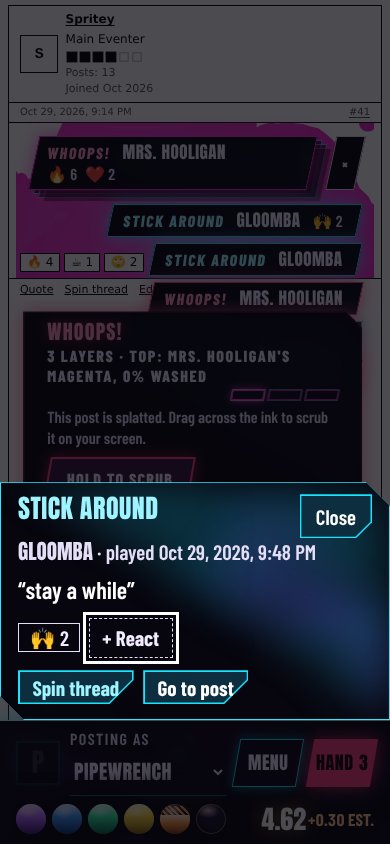
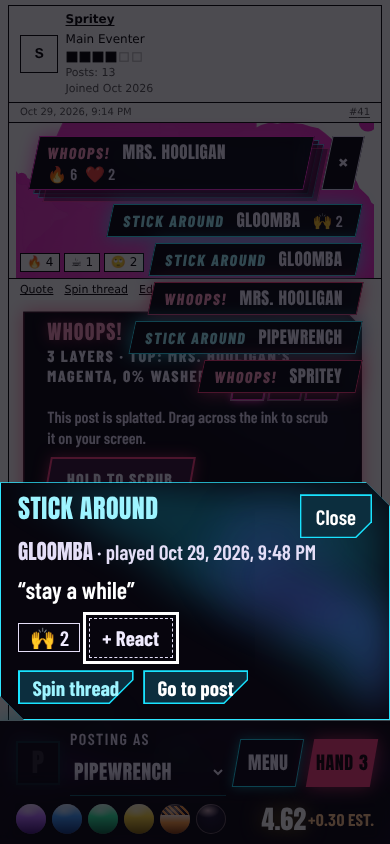
The unstacked list floats over its post's own controls as an open menu does: a backdrop takes a press, Tab past either end stacks it, and what it floats over is out of reach until then
axe's target-size, at 360px, found the post's History link left too little room by a floating tag. The post's footer, plate
and reactions are inert while the list is unstacked; a press lands on a clear backdrop and stacks it; Tab past the last
tag, or Shift+Tab before the first, stacks it and goes on. The shots are taken again on this build.

Claude-Session: https://claude.ai/code/session_01FiUbYMLkvanL29fe9B4of4

diff --git a/engine/ui/cards/Effects.tsx b/engine/ui/cards/Effects.tsx
@@ -21,8 +21,8 @@
  * in play order, so the latest is outermost. A post with no plays, or whose plays' cards draw no
  * effect, is drawn untouched.
  */
-import { createContext, useCallback, useContext, useEffect, useId, useMemo, useRef, useState, useSyncExternalStore, type CSSProperties, type ReactNode, type RefObject } from 'react';
-import { createPortal } from 'react-dom';
+import { createContext, useCallback, useContext, useEffect, useId, useLayoutEffect, useMemo, useRef, useState, useSyncExternalStore, type CSSProperties, type ReactNode, type RefObject } from 'react';
+import { createPortal, flushSync } from 'react-dom';
 import { useKayfa } from '../context.tsx';
 import type { Act, Id } from '../data/api.ts';
 import { usePlayer } from '../player.tsx';
@@ -271,9 +271,30 @@ export function PlayTags({ plays, post, to, nameOf, tallies, mine, onSpin }: {
     document.addEventListener('pointerdown', press);
     return () => document.removeEventListener('pointerdown', press);
   }, [unstacked, panelOpen]);
+  /*
+   * Unstacked, the list floats over its post's own controls (its reactions, its plate, its footer), which are out of reach
+   * until it is stacked again, as what lies under an open menu is: a press lands on the backdrop and stacks it, and Tab
+   * past either end of the list stacks it and goes on. So a control the list half-covers is never half-pressed (axe's
+   * target-size at a phone's width). Set and released in the commit itself, so Tab's focus move finds them reachable.
+   */
+  useLayoutEffect(() => {
+    const post = unstacked ? list.current?.closest('article') : null;
+    if (!post) return;
+    const under = [post.querySelector<HTMLElement>(':scope > footer'), post.querySelector<HTMLElement>(':scope > .kb-act-slot'), ...post.querySelectorAll<HTMLElement>(':scope > .kb-act-main > :not(.kb-play-tags)')]
+      .filter((el): el is HTMLElement => el !== null && !el.hasAttribute('inert'));
+    for (const el of under) el.setAttribute('inert', '');
+    return () => { for (const el of under) el.removeAttribute('inert'); };
+  }, [unstacked]);
   if (here.billed.length === 0) return null;
   const [lead, ...rest] = here.billed;
   const opener = (play: Id) => (el: HTMLButtonElement) => setOpen((was) => (was?.play === play ? null : { play, opener: el }));
+  /* Tab past the last of the stack's controls, or Shift+Tab before the first, stacks it, and the focus goes on where Tab takes it. */
+  const tabOut = (e: React.KeyboardEvent) => {
+    if (e.key !== 'Tab' || !unstacked || panelOpen) return;
+    const stops = [...(list.current?.querySelectorAll<HTMLElement>('button:not([disabled])') ?? [])].filter((b) => !b.closest('[hidden]'));
+    const at = stops.indexOf(document.activeElement as HTMLElement);
+    if ((e.shiftKey && at === 0) || (!e.shiftKey && at === stops.length - 1)) flushSync(() => setUnstacked(false));
+  };
   const opened = open ? here.plays.find((p) => p.id === open.play) ?? null : null;
   const tagOf = (p: CardPlay) => (
     <PlayTag play={p} caster={nameOf(p.caster)} tint={inkOf(ui, p, here.plays)} tallies={tallies} onOpen={opener(p.id)} expanded={open?.play === p.id} />
@@ -282,7 +303,7 @@ export function PlayTags({ plays, post, to, nameOf, tallies, mine, onSpin }: {
   return (
     <ul
       ref={list} className="kb-play-tags" aria-label="Cards played on this post" data-kb-unstacked={unstacked ? 'true' : undefined}
-      onKeyDown={(e) => { if (e.key === 'Escape' && unstacked && !panelOpen) { e.stopPropagation(); stack(); } }}
+      onKeyDown={(e) => { if (e.key === 'Escape' && unstacked && !panelOpen) { e.stopPropagation(); stack(); } else tabOut(e); }}
     >
       <li className="kb-play-tags-lead">
         {/* The top tag, with the edges of the next few behind it, offset as a fanned deck. */}
@@ -312,6 +333,11 @@ export function PlayTags({ plays, post, to, nameOf, tallies, mine, onSpin }: {
       </li>
       {rest.length > 0 && (
         <li className="kb-play-tags-rest">
+          {/*
+            * Under the floating list, a clear backdrop over the page: a press outside the list lands on it and stacks the list,
+            * and never half-presses a control the list half-covers (axe's target-size, at a phone's width).
+            */}
+          {unstacked && <div className="kb-play-backdrop" aria-hidden="true" onPointerDown={(e) => { e.preventDefault(); setUnstacked(false); }} />}
           <ul id={`${id}-rest`} className="kb-play-unstacked" hidden={!unstacked}>
             {rest.map((p) => <li key={p.id}>{tagOf(p)}</li>)}
           </ul>

diff --git a/engine/ui/cards/tags.test.tsx b/engine/ui/cards/tags.test.tsx
@@ -124,6 +124,58 @@ describe('the stack of plays over a post', () => {
     expect(reachable(list)).toHaveLength(1);
   });
 
+  test('unstacked, a clear backdrop lies under the list: a press on it stacks the list, and goes no further', async () => {
+    const w = world();
+    w.play(w.spritey);
+    w.play(w.gloomba);
+    open(w);
+    const list = await tags();
+    expect(list.querySelector('.kb-play-backdrop')).toBeNull();
+    await userEvent.click(unstack(list));
+    const backdrop = list.querySelector('.kb-play-backdrop')!;
+    expect(backdrop).toHaveAttribute('aria-hidden', 'true');
+    await userEvent.pointer({ keys: '[MouseLeft]', target: backdrop });
+    expect(reachable(list)).toHaveLength(1);
+    expect(list.querySelector('.kb-play-backdrop')).toBeNull();
+  });
+
+  test('unstacked, what it floats over in its post is out of reach until it is stacked: the post\'s footer, its plate and its reactions', async () => {
+    const w = world();
+    w.play(w.spritey);
+    w.play(w.gloomba);
+    open(w);
+    const list = await tags();
+    const post = await post2();
+    const under = () => [post.querySelector('footer'), ...post.querySelectorAll('.kb-act-main > :not(.kb-play-tags)')].filter((el): el is HTMLElement => el !== null);
+    expect(under().length).toBeGreaterThan(1);
+    expect(under().every((el) => !el.hasAttribute('inert'))).toBe(true);
+    await userEvent.click(unstack(list));
+    expect(under().every((el) => el.hasAttribute('inert'))).toBe(true);
+    expect(list.closest('[inert]')).toBeNull();
+    await userEvent.keyboard('{Escape}');
+    expect(under().every((el) => !el.hasAttribute('inert'))).toBe(true);
+  });
+
+  test('Tab past the last tag stacks it and goes on to the post\'s own controls, as Tab leaves a menu; Shift+Tab before the button does too', async () => {
+    const w = world();
+    w.play(w.spritey);
+    w.play(w.gloomba);
+    open(w);
+    const list = await tags();
+    const post = await post2();
+    await userEvent.click(unstack(list));
+    reachable(list).at(-1)!.focus();
+    await userEvent.tab();
+    expect(reachable(list)).toHaveLength(1);
+    expect(post.contains(document.activeElement)).toBe(true);
+    expect(list.contains(document.activeElement)).toBe(false);
+    await userEvent.click(unstack(list));
+    reachable(list)[0]!.focus();
+    await userEvent.tab({ shift: true });
+    expect(reachable(list)).toHaveLength(1);
+    expect(list.contains(document.activeElement)).toBe(false);
+  });
+
   test('a play\'s panel opened from the list keeps the list unstacked: Esc closes the panel first, and focus goes back to its tag', async () => {
     const w = world();
     w.play(w.spritey);

diff --git a/engine/ui/cards/cards.css b/engine/ui/cards/cards.css
@@ -187,6 +187,22 @@
   height: 0;
 }
 
+.kb-play-tags-lead,
+.kb-play-unstacked {
+  z-index: 2;
+}
+
+.kb-play-tags-lead {
+  position: relative;
+}
+
+/* Clear, the window's size, under the list and the stack and over the rest of the page while it is unstacked. */
+.kb-play-backdrop {
+  position: fixed;
+  inset: 0;
+  z-index: 1;
+}
+
 .kb-play-unstacked {
   position: absolute;
   top: 0.9rem;
